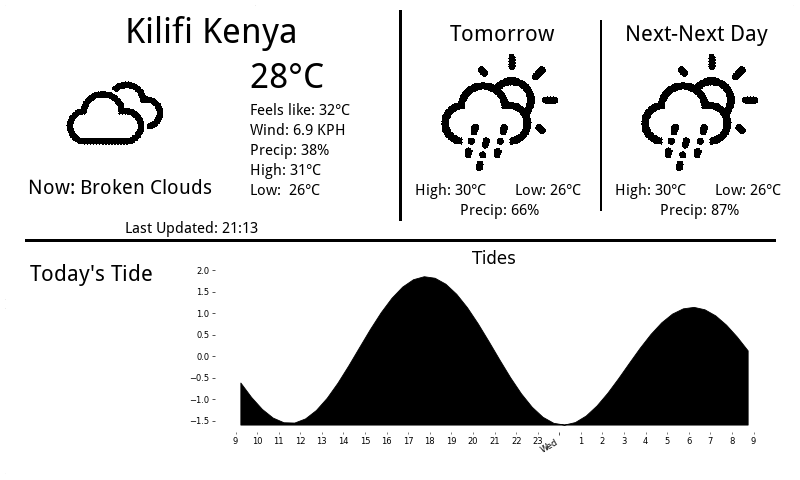
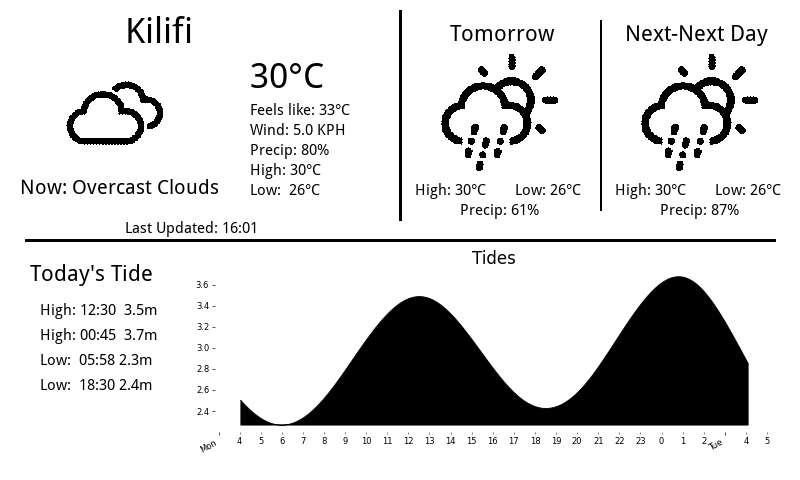
fix: various bugs

diff --git a/tidetracker/run.py b/tidetracker/run.py
@@ -6,8 +6,9 @@ import os
 
 from PIL import Image, ImageDraw
 
-from tidetracker import adapters, config, plot, style
+from tidetracker import config, plot, style
 from tidetracker import weather as weath
+from tidetracker.adapters.tides import jrc
 from tidetracker.screen import Screen
 
 log = logging.getLogger(__name__)
@@ -50,17 +51,17 @@ def main():
         # Set strings to be printed to screen
         # string_location = config.LOCATION
         string_temp_current = format(temp_current, ".0f") + "\N{DEGREE SIGN}C"
-        string_feels_like = "Feels like: " + \
-            format(feels_like, ".0f") + "\N{DEGREE SIGN}C"
+        string_feels_like = (
+            "Feels like: " + format(feels_like, ".0f") + "\N{DEGREE SIGN}C"
+        )
         # string_humidity = "Humidity: " + str(humidity) + "%"
         string_wind = "Wind: " + format(wind, ".1f") + " KPH"
         string_report = "Now: " + report.title()
-        string_temp_max = "High: " + \
-            format(temp_max, ">.0f") + "\N{DEGREE SIGN}C"
-        string_temp_min = "Low:  " + \
-            format(temp_min, ">.0f") + "\N{DEGREE SIGN}C"
-        string_precip_percent = "Precip: " + \
-            str(format(daily_precip_percent, ".0f")) + "%"
+        string_temp_max = "High: " + format(temp_max, ">.0f") + "\N{DEGREE SIGN}C"
+        string_temp_min = "Low:  " + format(temp_min, ">.0f") + "\N{DEGREE SIGN}C"
+        string_precip_percent = (
+            "Precip: " + str(format(daily_precip_percent, ".0f")) + "%"
+        )
 
         # get min and max temp
         nx_daily_temp = daily[1]["temp"]
@@ -81,19 +82,17 @@ def main():
         nx_nx_daily_precip_percent = nx_nx_daily_precip_float * 100
 
         # Tomorrow Forcast Strings
-        nx_day_high = "High: " + \
-            format(nx_temp_max, ">.0f") + "\N{DEGREE SIGN}C"
+        nx_day_high = "High: " + format(nx_temp_max, ">.0f") + "\N{DEGREE SIGN}C"
         nx_day_low = "Low: " + format(nx_temp_min, ">.0f") + "\N{DEGREE SIGN}C"
-        nx_precip_percent = "Precip: " + \
-            str(format(nx_daily_precip_percent, ".0f")) + "%"
+        nx_precip_percent = (
+            "Precip: " + str(format(nx_daily_precip_percent, ".0f")) + "%"
+        )
         nx_weather_icon = daily[1]["weather"]
         nx_icon = nx_weather_icon[0]["icon"]
 
         # Overmorrow Forcast Strings
-        nx_nx_day_high = "High: " + \
-            format(nx_nx_temp_max, ">.0f") + "\N{DEGREE SIGN}C"
-        nx_nx_day_low = "Low: " + \
-            format(nx_nx_temp_min, ">.0f") + "\N{DEGREE SIGN}C"
+        nx_nx_day_high = "High: " + format(nx_nx_temp_max, ">.0f") + "\N{DEGREE SIGN}C"
+        nx_nx_day_low = "Low: " + format(nx_nx_temp_min, ">.0f") + "\N{DEGREE SIGN}C"
         nx_nx_precip_percent = (
             "Precip: " + str(format(nx_nx_daily_precip_percent, ".0f")) + "%"
         )
@@ -110,11 +109,11 @@ def main():
         wl_error = True
         while wl_error is True:
             try:
-                peaks_troughs_df, tide_df = adapters.tides.jrc.get()
+                peaks_troughs_df, tide_df = jrc.get()
                 wl_error = False
             except Exception as e:
-                screen.display_error("Tide Data")
                 log.error(e)
+                screen.display_error("Tide Data")
 
         plot.tide(tide_df)
 
@@ -130,8 +129,7 @@ def main():
         icon_image = icon_image.resize((130, 130))
         template.paste(icon_image, (50, 50))
 
-        draw.text((125, 10), config.LOCATION,
-                  font=style.FONT_35, fill=style.BLACK)
+        draw.text((125, 10), config.LOCATION, font=style.FONT_35, fill=style.BLACK)
 
         # Center current weather report
         w, h = draw.textsize(string_report, font=style.FONT_20)
@@ -140,27 +138,20 @@ def main():
             string_report = "Now:\n" + report.title()
 
         center = int(120 - (w / 2))
-        draw.text((center, 175), string_report,
-                  font=style.FONT_20, fill=style.BLACK)
+        draw.text((center, 175), string_report, font=style.FONT_20, fill=style.BLACK)
 
         # Data
-        draw.text((250, 55), string_temp_current,
-                  font=style.FONT_35, fill=style.BLACK)
+        draw.text((250, 55), string_temp_current, font=style.FONT_35, fill=style.BLACK)
         y = 100
-        draw.text((250, y), string_feels_like,
-                  font=style.FONT_15, fill=style.BLACK)
-        draw.text((250, y + 20), string_wind,
-                  font=style.FONT_15, fill=style.BLACK)
+        draw.text((250, y), string_feels_like, font=style.FONT_15, fill=style.BLACK)
+        draw.text((250, y + 20), string_wind, font=style.FONT_15, fill=style.BLACK)
         draw.text(
             (250, y + 40), string_precip_percent, font=style.FONT_15, fill=style.BLACK
         )
-        draw.text((250, y + 60), string_temp_max,
-                  font=style.FONT_15, fill=style.BLACK)
-        draw.text((250, y + 80), string_temp_min,
-                  font=style.FONT_15, fill=style.BLACK)
+        draw.text((250, y + 60), string_temp_max, font=style.FONT_15, fill=style.BLACK)
+        draw.text((250, y + 80), string_temp_min, font=style.FONT_15, fill=style.BLACK)
 
-        draw.text((125, 218), last_update_string,
-                  font=style.FONT_15, fill=style.BLACK)
+        draw.text((125, 218), last_update_string, font=style.FONT_15, fill=style.BLACK)
 
         # Weather Forcast
         # Tomorrow
@@ -169,25 +160,21 @@ def main():
         icon_image = icon_image.resize((130, 130))
         template.paste(icon_image, (435, 50))
         draw.text((450, 20), "Tomorrow", font=style.FONT_22, fill=style.BLACK)
-        draw.text((415, 180), nx_day_high,
-                  font=style.FONT_15, fill=style.BLACK)
+        draw.text((415, 180), nx_day_high, font=style.FONT_15, fill=style.BLACK)
         draw.text((515, 180), nx_day_low, font=style.FONT_15, fill=style.BLACK)
-        draw.text((460, 200), nx_precip_percent,
-                  font=style.FONT_15, fill=style.BLACK)
+        draw.text((460, 200), nx_precip_percent, font=style.FONT_15, fill=style.BLACK)
 
         # Next Next Day Forcast
         icon_file = nx_nx_icon + ".png"
         icon_image = Image.open(os.path.join(config.ICON_DIR, icon_file))
         icon_image = icon_image.resize((130, 130))
         template.paste(icon_image, (635, 50))
-        draw.text((625, 20), "Next-Next Day",
-                  font=style.FONT_22, fill=style.BLACK)
-        draw.text((615, 180), nx_nx_day_high,
-                  font=style.FONT_15, fill=style.BLACK)
-        draw.text((715, 180), nx_nx_day_low,
-                  font=style.FONT_15, fill=style.BLACK)
-        draw.text((660, 200), nx_nx_precip_percent,
-                  font=style.FONT_15, fill=style.BLACK)
+        draw.text((625, 20), "Next-Next Day", font=style.FONT_22, fill=style.BLACK)
+        draw.text((615, 180), nx_nx_day_high, font=style.FONT_15, fill=style.BLACK)
+        draw.text((715, 180), nx_nx_day_low, font=style.FONT_15, fill=style.BLACK)
+        draw.text(
+            (660, 200), nx_nx_precip_percent, font=style.FONT_15, fill=style.BLACK
+        )
 
         # Dividing lines
         draw.line((400, 10, 400, 220), fill=style.BLACK, width=3)
@@ -203,8 +190,7 @@ def main():
         draw.line((25, h, 775, h), fill=style.BLACK, width=3)
 
         # Daily tide times
-        draw.text((30, 260), "Today's Tide",
-                  font=style.FONT_22, fill=style.BLACK)
+        draw.text((30, 260), "Today's Tide", font=style.FONT_22, fill=style.BLACK)
 
         # Display tide preditions
         y_loc = 300  # starting location of list
@@ -220,8 +206,7 @@ def main():
                 tidestr = f"Low:  {tide_time} {round(row['height'],1)}m"
 
             # Draw to display image
-            draw.text((40, y_loc), tidestr,
-                      font=style.FONT_15, fill=style.BLACK)
+            draw.text((40, y_loc), tidestr, font=style.FONT_15, fill=style.BLACK)
             y_loc += 25  # This bumps the next prediction down a line
 
         # Save the image for display as PNG
@@ -230,8 +215,7 @@ def main():
         # Close the template file
         template.close()
 
-        screen.write_to_screen(
-            screen_output_file, config.REFRESH_INTERVAL * 60)
+        screen.write_to_screen(screen_output_file, config.REFRESH_INTERVAL * 60)
 
 
 if __name__ == "__main__":

diff --git a/tidetracker/adapters/tides/jrc.py b/tidetracker/adapters/tides/jrc.py
@@ -10,32 +10,37 @@ TIME_ZONE = "Africa/Nairobi"
 
 
 def get_peaks_and_troughs(tide_df):
-    peaks, _ = signal.find_peaks(tide_df['height'])
-    troughs, _ = signal.find_peaks(-tide_df['height'])
+    peaks, _ = signal.find_peaks(tide_df["height"])
+    troughs, _ = signal.find_peaks(-tide_df["height"])
 
     peaks_troughs = []
     for peak in peaks:
-        peaks_troughs.append({
-            "datetime": tide_df.iloc[peak]['datetime'],
-            "height": tide_df.iloc[peak]['height'],
-            "state": "HIGH TIDE"
-        })
+        peaks_troughs.append(
+            {
+                "datetime": tide_df.iloc[peak]["datetime"],
+                "height": tide_df.iloc[peak]["height"],
+                "state": "HIGH TIDE",
+            }
+        )
     for trough in troughs:
-        peaks_troughs.append({
-            "datetime": tide_df.iloc[trough]['datetime'],
-            "height": tide_df.iloc[trough]['height'],
-            "state": "LOW TIDE"
-        })
+        peaks_troughs.append(
+            {
+                "datetime": tide_df.iloc[trough]["datetime"],
+                "height": tide_df.iloc[trough]["height"],
+                "state": "LOW TIDE",
+            }
+        )
 
     peaks_troughs_df = pd.DataFrame(
         peaks_troughs, columns=["datetime", "height", "state"]
     )
+    peaks_troughs_df.index = peaks_troughs_df["datetime"]
     return peaks_troughs_df
 
 
 def get():
-    from_time = arrow.utcnow().shift(hours=-12).format('YYYY-MM-DD HH:mm:ss')
-    to_time = arrow.utcnow().shift(hours=12).format('YYYY-MM-DD HH:mm:ss')
+    from_time = arrow.utcnow().shift(hours=-12).format("YYYY-MM-DD HH:mm:ss")
+    to_time = arrow.utcnow().shift(hours=12).format("YYYY-MM-DD HH:mm:ss")
     querystring = {
         "tMin": from_time,
         "tMax": to_time,
@@ -50,23 +55,20 @@ def get():
         "sec-fetch-mode": "cors",
         "sec-fetch-site": "same-origin",
         "sec-gpc": "1",
-        "x-requested-with": "XMLHttpRequest"
+        "x-requested-with": "XMLHttpRequest",
     }
     response = requests.request(
         "GET",
         f"{JRC_URL}{DEVICE_ID}/Data",
         params=querystring,
         headers=headers,
-
     )
     data = response.json()
-    tide_df = pd.DataFrame(
-        data, columns=["Date", "Value"]
+    tide_df = pd.DataFrame(data, columns=["Date", "Value"])
+    tide_df.rename(columns={"Date": "datetime", "Value": "height"}, inplace=True)
+    tide_df["datetime"] = pd.to_datetime(tide_df["datetime"]).dt.tz_convert(
+        config.TIME_ZONE
     )
-    tide_df.rename(columns={"Date": "datetime",
-                            "Value": "height"}, inplace=True)
-    tide_df["datetime"] = pd.to_datetime(
-        tide_df["datetime"]).dt.tz_convert(config.TIME_ZONE)
     tide_df["datetime"] = tide_df["datetime"]
     tide_df.index = tide_df["datetime"]
 

diff --git a/tidetracker/plot.py b/tidetracker/plot.py
@@ -1,4 +1,3 @@
-
 import matplotlib.dates as mdates
 import matplotlib.pyplot as plt
 import pytz
@@ -19,10 +18,10 @@ def tide(heights, show=False):
     for pos in ["right", "top", "bottom", "left"]:
         plt.gca().spines[pos].set_visible(False)
 
-    axs.xaxis.set_major_locator(mdates.DayLocator())
-    axs.xaxis.set_minor_locator(mdates.HourLocator())
-
     timezone = pytz.timezone(config.TIME_ZONE)
+    axs.xaxis.set_major_locator(mdates.DayLocator(tz=timezone))
+    axs.xaxis.set_minor_locator(mdates.HourLocator(tz=timezone))
+
     major_date_formatter = mdates.DateFormatter("%a", tz=timezone)
     minor_date_formatter = mdates.DateFormatter("%-H", tz=timezone)
     axs.xaxis.set_major_formatter(major_date_formatter)
